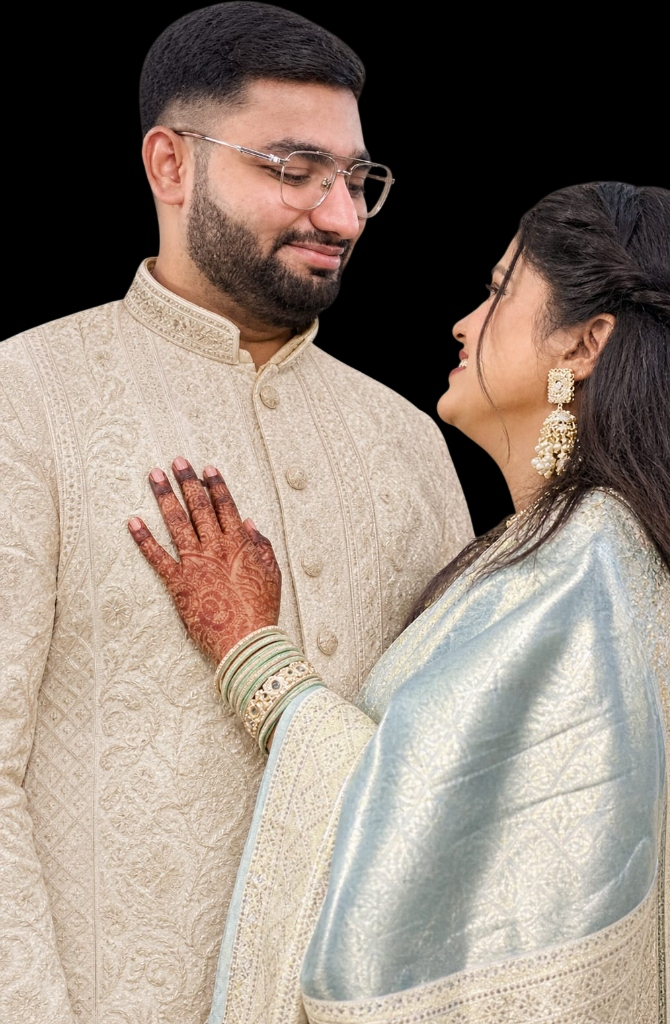
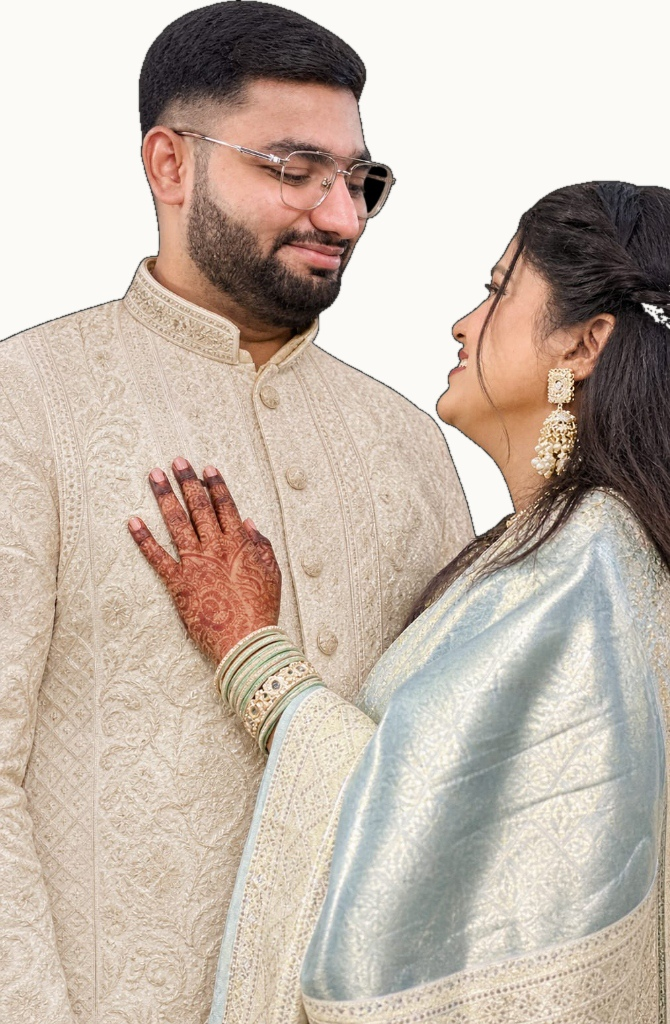
Fix groom name clipping, enlarge Nikah typography, match couple photo background to theme ivory

Changed region(s): [[0.3881, 0.0, 1.0, 0.5312], [0.0, 0.0, 0.3284, 0.3438], [0.9552, 0.2812, 1.0, 0.3438]]

diff --git a/assets/css/theme.css b/assets/css/theme.css
@@ -47,7 +47,7 @@ body { background:#e9e2d6; }
 .ornament::after { background:linear-gradient(90deg,transparent,var(--gold)); }
 .formal { min-height:0; aspect-ratio:auto; background-image:var(--formal-bg); background-size:cover; background-repeat:no-repeat; background-position:center; background-color:var(--ivory); }
 /* Keep invitation copy in the clear silk centre of the floral frame. */
-.formal-content { width:76%; max-width:460px; padding:clamp(128px,35%,205px) 0 clamp(225px,62vw,355px); }
+.formal-content { width:min(90%,520px); max-width:520px; padding:clamp(128px,35%,205px) 0 clamp(225px,62vw,355px); }
 .formal-content { position:relative; z-index:2; }
 .formal-intro { font-size:14px; line-height:1.9; max-width:355px; margin:22px auto 0; }
 .formal-name { font-family:var(--font-display); font-size:clamp(30px,8.2vw,43px); line-height:1.2; margin-top:27px; color:var(--maroon); }
@@ -114,7 +114,7 @@ body { background:#e9e2d6; }
 .couple-portrait-wrapper { margin:24px auto 0; max-width:420px; display:flex; flex-direction:column; align-items:center; }
 .couple-portrait-frame { position:relative; width:min(100%,320px); padding:8px; background:radial-gradient(circle at 50% 30%,#fffdf8,#efe5ce); border:2px solid var(--gold); border-radius:200px 200px 18px 18px; box-shadow:0 14px 40px #352c2726,0 0 25px #b292502b; }
 .couple-portrait-frame::before { content:''; position:absolute; inset:-5px; border:1px solid var(--pale-gold); border-radius:205px 205px 23px 23px; pointer-events:none; opacity:.85; }
-.couple-portrait-inner { position:relative; width:100%; aspect-ratio:2/3; border-radius:192px 192px 12px 12px; overflow:hidden; background:#000; }
+.couple-portrait-inner { position:relative; width:100%; aspect-ratio:2/3; border-radius:192px 192px 12px 12px; overflow:hidden; background:var(--ivory); }
 .couple-portrait-img { width:100%; height:100%; object-fit:cover; object-position:center top; display:block; transition:transform .6s ease; }
 .couple-portrait-frame:hover .couple-portrait-img { transform:scale(1.03); }
 .couple-portrait-caption { font-family:var(--font-display); font-size:clamp(22px,5.8vw,30px); color:var(--maroon); margin-top:16px; letter-spacing:.04em; text-align:center; font-weight:700; }
@@ -230,7 +230,8 @@ body { background:#e9e2d6; }
 .hero-names,.formal-name { font-family:var(--font-script); color:var(--gold); }
 .hero-names { flex-direction:row; justify-content:center; align-items:baseline; flex-wrap:nowrap; white-space:nowrap; font-size:clamp(30px,10cqw,56px); line-height:1.15; gap:.18em; }
 .hero-amp { font-size:clamp(19px,4.4cqw,27px); }
-.formal-name { font-size:clamp(30px,9.5cqw,52px); line-height:1.15; white-space:nowrap; }
+.formal-name { font-size:clamp(25px,7cqw,40px); line-height:1.25; white-space:normal; text-wrap:balance; word-break:normal; max-width:100%; }
+.formal-groom { font-size:clamp(21px,5.8cqw,34px); line-height:1.25; margin-top:14px; }
 .hero-bismillah,.hero-family,.hero-occasions,.formal-intro,.formal-relation,.formal-family,.verse-translation,.verse-reference { color:var(--text); }
 .verse-arabic,.dua-prayer,.dua-arabic,.dua-message { color:var(--gold); }
 .dua-content h2,.gift-copy h2 { color:var(--text); }
@@ -250,12 +251,15 @@ body:not(.is-chrome-ready) .hero .scroll-cue,body:not(.is-chrome-ready) .hero + 
 .event-detail { margin-top:25px; }
 .event-detail-icon { display:block; color:var(--text); font-size:24px; line-height:1; margin-bottom:13px; }
 .event-detail dt { color:var(--gold); }
-.event-date { font-size:clamp(20px,5.4vw,26px); }
-.programme-row { gap:8px; padding:9px 0; }
-.programme-name { font-size:12px; color:var(--text); }
-.programme-time { font-size:19px; color:var(--gold); }
-.event-venue { font-size:24px; color:var(--text); }
-.event-address { font-size:12px; line-height:1.8; color:var(--text); }
+.event-date { font-family:'Marcellus','Cormorant SC',serif; font-size:clamp(24px,6.2vw,32px); font-weight:700; letter-spacing:.05em; color:var(--text); text-transform:uppercase; }
+.event-weekday { font-family:'Cormorant SC',serif; font-size:clamp(12px,3.2vw,15px); font-weight:700; letter-spacing:.22em; color:var(--gold); text-transform:uppercase; margin-bottom:6px; }
+.programme-row { display:flex; justify-content:space-between; align-items:center; gap:14px; padding:12px 18px; border:1px solid rgba(160,128,72,0.3); background:rgba(255,250,244,0.7); border-radius:4px; margin-top:6px; }
+.programme-name { font-family:'Marcellus','Cormorant SC',serif; font-size:clamp(19px,5.2vw,25px); font-weight:700; color:var(--text); letter-spacing:.06em; text-transform:uppercase; }
+.programme-time { font-family:'Bodoni Moda','Marcellus',serif; font-size:clamp(20px,5.6vw,27px); font-weight:700; color:var(--gold); letter-spacing:.02em; white-space:nowrap; }
+.event-venue { font-family:'Marcellus','Cormorant SC',serif; font-size:clamp(25px,6.6vw,33px); font-weight:700; letter-spacing:.03em; color:var(--text); line-height:1.25; }
+.event-address { font-family:'Marcellus',serif; font-size:clamp(13px,3.2vw,15px); font-weight:500; line-height:1.85; color:var(--text); max-width:320px; margin:10px auto 0; }
+.event-detail-icon { color:var(--gold); font-size:22px; margin-bottom:10px; }
+.event-detail dt { color:var(--gold); font-weight:700; letter-spacing:.24em; font-size:11px; }
 .event-actions { margin-top:22px; }
 @media(max-width:380px) { .event-card { padding:145px 13% 112px; } .programme-name { font-size:11px; } .programme-time { font-size:17px; } .event-venue { font-size:22px; } }
 

diff --git a/css/theme.css b/css/theme.css
@@ -47,7 +47,7 @@ body { background:#e9e2d6; }
 .ornament::after { background:linear-gradient(90deg,transparent,var(--gold)); }
 .formal { min-height:0; aspect-ratio:auto; background-image:var(--formal-bg); background-size:cover; background-repeat:no-repeat; background-position:center; background-color:var(--ivory); }
 /* Keep invitation copy in the clear silk centre of the floral frame. */
-.formal-content { width:76%; max-width:460px; padding:clamp(128px,35%,205px) 0 clamp(225px,62vw,355px); }
+.formal-content { width:min(90%,520px); max-width:520px; padding:clamp(128px,35%,205px) 0 clamp(225px,62vw,355px); }
 .formal-content { position:relative; z-index:2; }
 .formal-intro { font-size:14px; line-height:1.9; max-width:355px; margin:22px auto 0; }
 .formal-name { font-family:var(--font-display); font-size:clamp(30px,8.2vw,43px); line-height:1.2; margin-top:27px; color:var(--maroon); }
@@ -114,7 +114,7 @@ body { background:#e9e2d6; }
 .couple-portrait-wrapper { margin:24px auto 0; max-width:420px; display:flex; flex-direction:column; align-items:center; }
 .couple-portrait-frame { position:relative; width:min(100%,320px); padding:8px; background:radial-gradient(circle at 50% 30%,#fffdf8,#efe5ce); border:2px solid var(--gold); border-radius:200px 200px 18px 18px; box-shadow:0 14px 40px #352c2726,0 0 25px #b292502b; }
 .couple-portrait-frame::before { content:''; position:absolute; inset:-5px; border:1px solid var(--pale-gold); border-radius:205px 205px 23px 23px; pointer-events:none; opacity:.85; }
-.couple-portrait-inner { position:relative; width:100%; aspect-ratio:2/3; border-radius:192px 192px 12px 12px; overflow:hidden; background:#000; }
+.couple-portrait-inner { position:relative; width:100%; aspect-ratio:2/3; border-radius:192px 192px 12px 12px; overflow:hidden; background:var(--ivory); }
 .couple-portrait-img { width:100%; height:100%; object-fit:cover; object-position:center top; display:block; transition:transform .6s ease; }
 .couple-portrait-frame:hover .couple-portrait-img { transform:scale(1.03); }
 .couple-portrait-caption { font-family:var(--font-display); font-size:clamp(22px,5.8vw,30px); color:var(--maroon); margin-top:16px; letter-spacing:.04em; text-align:center; font-weight:700; }
@@ -230,7 +230,8 @@ body { background:#e9e2d6; }
 .hero-names,.formal-name { font-family:var(--font-script); color:var(--gold); }
 .hero-names { flex-direction:row; justify-content:center; align-items:baseline; flex-wrap:nowrap; white-space:nowrap; font-size:clamp(30px,10cqw,56px); line-height:1.15; gap:.18em; }
 .hero-amp { font-size:clamp(19px,4.4cqw,27px); }
-.formal-name { font-size:clamp(30px,9.5cqw,52px); line-height:1.15; white-space:nowrap; }
+.formal-name { font-size:clamp(25px,7cqw,40px); line-height:1.25; white-space:normal; text-wrap:balance; word-break:normal; max-width:100%; }
+.formal-groom { font-size:clamp(21px,5.8cqw,34px); line-height:1.25; margin-top:14px; }
 .hero-bismillah,.hero-family,.hero-occasions,.formal-intro,.formal-relation,.formal-family,.verse-translation,.verse-reference { color:var(--text); }
 .verse-arabic,.dua-prayer,.dua-arabic,.dua-message { color:var(--gold); }
 .dua-content h2,.gift-copy h2 { color:var(--text); }
@@ -250,12 +251,15 @@ body:not(.is-chrome-ready) .hero .scroll-cue,body:not(.is-chrome-ready) .hero + 
 .event-detail { margin-top:25px; }
 .event-detail-icon { display:block; color:var(--text); font-size:24px; line-height:1; margin-bottom:13px; }
 .event-detail dt { color:var(--gold); }
-.event-date { font-size:clamp(20px,5.4vw,26px); }
-.programme-row { gap:8px; padding:9px 0; }
-.programme-name { font-size:12px; color:var(--text); }
-.programme-time { font-size:19px; color:var(--gold); }
-.event-venue { font-size:24px; color:var(--text); }
-.event-address { font-size:12px; line-height:1.8; color:var(--text); }
+.event-date { font-family:'Marcellus','Cormorant SC',serif; font-size:clamp(24px,6.2vw,32px); font-weight:700; letter-spacing:.05em; color:var(--text); text-transform:uppercase; }
+.event-weekday { font-family:'Cormorant SC',serif; font-size:clamp(12px,3.2vw,15px); font-weight:700; letter-spacing:.22em; color:var(--gold); text-transform:uppercase; margin-bottom:6px; }
+.programme-row { display:flex; justify-content:space-between; align-items:center; gap:14px; padding:12px 18px; border:1px solid rgba(160,128,72,0.3); background:rgba(255,250,244,0.7); border-radius:4px; margin-top:6px; }
+.programme-name { font-family:'Marcellus','Cormorant SC',serif; font-size:clamp(19px,5.2vw,25px); font-weight:700; color:var(--text); letter-spacing:.06em; text-transform:uppercase; }
+.programme-time { font-family:'Bodoni Moda','Marcellus',serif; font-size:clamp(20px,5.6vw,27px); font-weight:700; color:var(--gold); letter-spacing:.02em; white-space:nowrap; }
+.event-venue { font-family:'Marcellus','Cormorant SC',serif; font-size:clamp(25px,6.6vw,33px); font-weight:700; letter-spacing:.03em; color:var(--text); line-height:1.25; }
+.event-address { font-family:'Marcellus',serif; font-size:clamp(13px,3.2vw,15px); font-weight:500; line-height:1.85; color:var(--text); max-width:320px; margin:10px auto 0; }
+.event-detail-icon { color:var(--gold); font-size:22px; margin-bottom:10px; }
+.event-detail dt { color:var(--gold); font-weight:700; letter-spacing:.24em; font-size:11px; }
 .event-actions { margin-top:22px; }
 @media(max-width:380px) { .event-card { padding:145px 13% 112px; } .programme-name { font-size:11px; } .programme-time { font-size:17px; } .event-venue { font-size:22px; } }
 

diff --git a/index.html b/index.html
@@ -75,7 +75,7 @@
       <div class="couple-portrait-wrapper reveal">
         <div class="couple-portrait-frame">
           <div class="couple-portrait-inner">
-            <img id="handsImage" class="couple-portrait-img" width="800" height="1200" src="./assets/images/couple.jpg" alt="Mahjabin and Hussain" loading="lazy" decoding="async" />
+            <img id="handsImage" class="couple-portrait-img" width="800" height="1200" src="./assets/images/couple.png" alt="Mahjabin and Hussain" loading="lazy" decoding="async" />
           </div>
         </div>
         <p class="couple-portrait-caption">Mahjabin &amp; Hussain</p>

diff --git a/assets/js/config.js b/assets/js/config.js
@@ -34,8 +34,8 @@ window.INVITATION_CONFIG = {
     "formalBackground": "./assets/images/formal-ivory-floral.webp",
     "eventBackground": "./assets/images/pearl-floral-event.webp",
     "blessingsBackground": "./assets/images/closing-evening-garden.webp",
-    "hands": "./assets/images/couple.jpg",
-    "couple": "./assets/images/couple.jpg",
+    "hands": "./assets/images/couple.png",
+    "couple": "./assets/images/couple.png",
     "verseBackground": "./assets/images/mosque-courtyard.webp"
   },
   "opening": {

diff --git a/js/config.js b/js/config.js
@@ -34,8 +34,8 @@ window.INVITATION_CONFIG = {
     "formalBackground": "./assets/images/formal-ivory-floral.webp",
     "eventBackground": "./assets/images/pearl-floral-event.webp",
     "blessingsBackground": "./assets/images/closing-evening-garden.webp",
-    "hands": "./assets/images/couple.jpg",
-    "couple": "./assets/images/couple.jpg",
+    "hands": "./assets/images/couple.png",
+    "couple": "./assets/images/couple.png",
     "verseBackground": "./assets/images/mosque-courtyard.webp"
   },
   "opening": {
